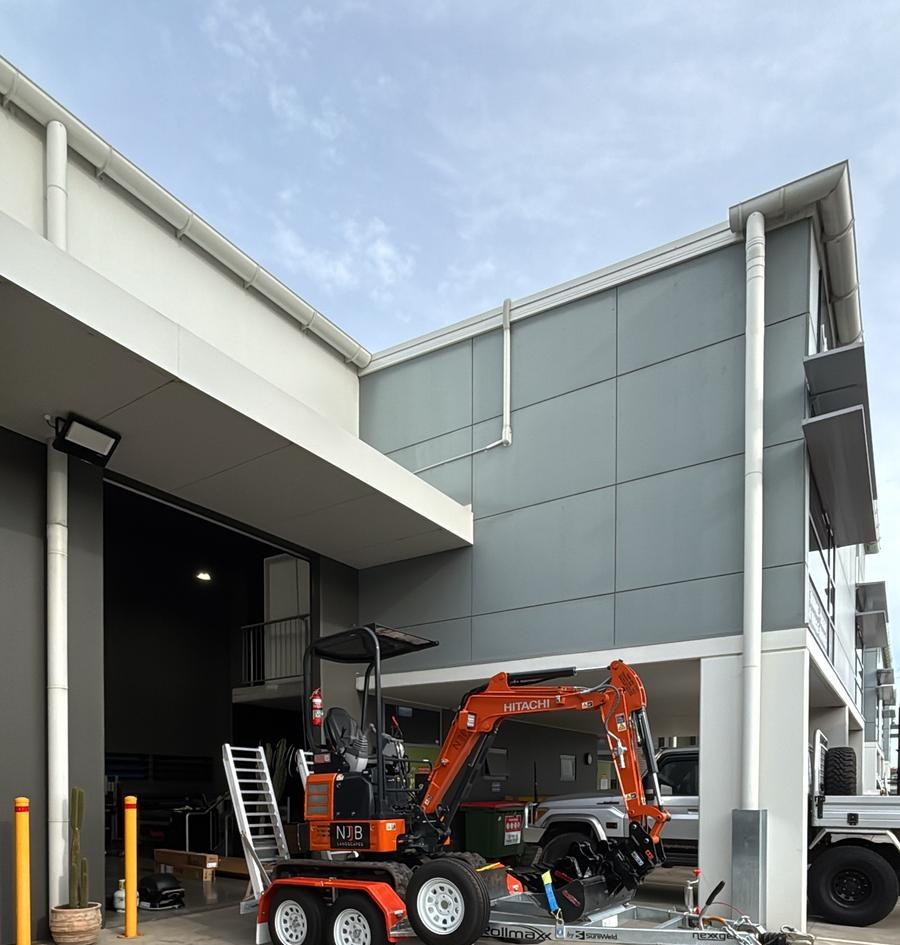
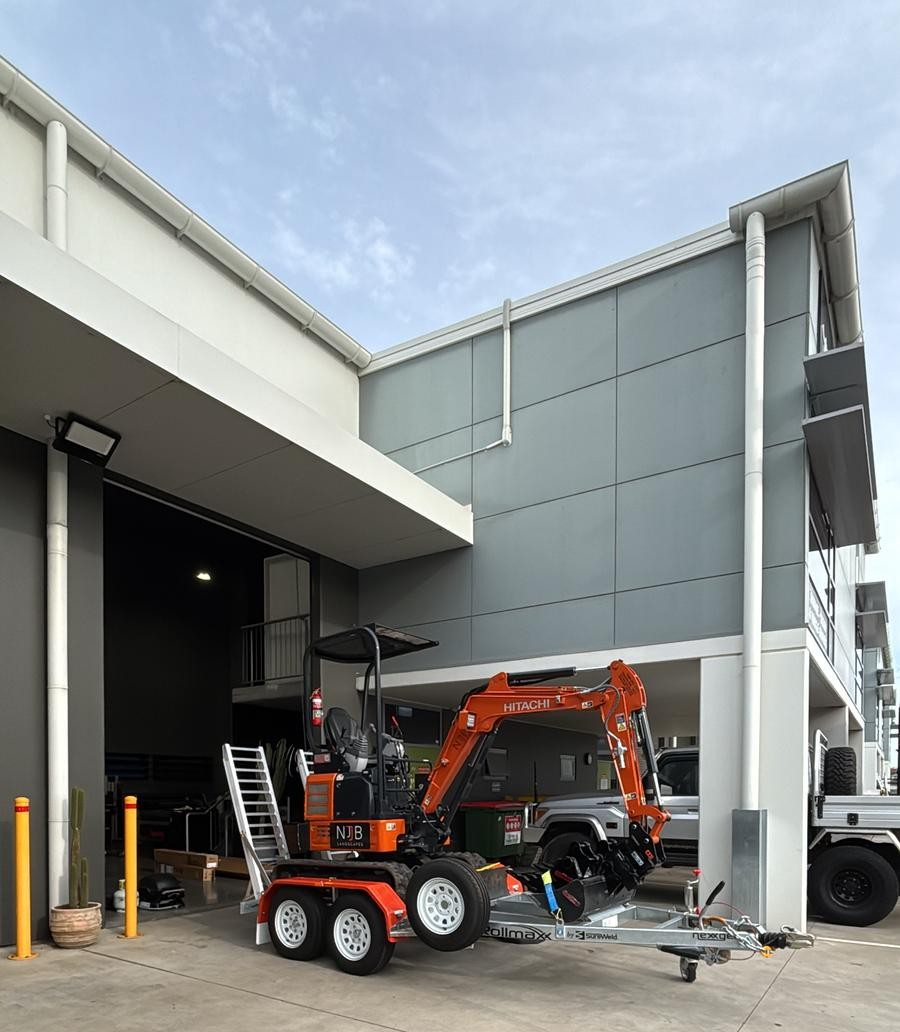
Deleted stale flat files and fixed image position

diff --git a/src/components/blocks/services-alternating.tsx b/src/components/blocks/services-alternating.tsx
@@ -6,6 +6,7 @@ interface ServiceAlternatingItem {
   description: string;
   image: string;
   imageAlt: string;
+  imagePosition?: string;
 }
 
 interface ServicesAlternatingProps {
@@ -35,7 +36,12 @@ export default function ServicesAlternating({
                   index % 2 === 1 && "lg:order-2"
                 )}
               >
-                <Image src={item.image} alt={item.imageAlt} fill className="object-cover" />
+                <Image
+                  src={item.image}
+                  alt={item.imageAlt}
+                  fill
+                  className={cn("object-cover", item.imagePosition ?? "object-center")}
+                />
               </div>
               <div className="flex flex-col gap-4 text-left">
                 <h3 className="text-2xl font-bold tracking-tight text-foreground sm:text-3xl">

diff --git a/src/app/services/page.tsx b/src/app/services/page.tsx
@@ -45,6 +45,7 @@ export default function ServicesPage() {
             description: "Need a machine for a day, a few days, or a week? We offer short-term rental options designed around the pace of trade and construction work.",
             image: "/images/services-short-term.jpg",
             imageAlt: "Short-term excavator rental Wollongong",
+            imagePosition: "object-bottom",
           },
           {
             title: "Local Delivery — Wollongong, Shellharbour & Kiama",

diff --git a/next.config.ts b/next.config.ts
@@ -2,6 +2,7 @@ import type { NextConfig } from "next";
 
 const nextConfig: NextConfig = {
   output: "export",
+  trailingSlash: true,
   images: {
     unoptimized: true,
     remotePatterns: [{ protocol: "https", hostname: "**" }],
